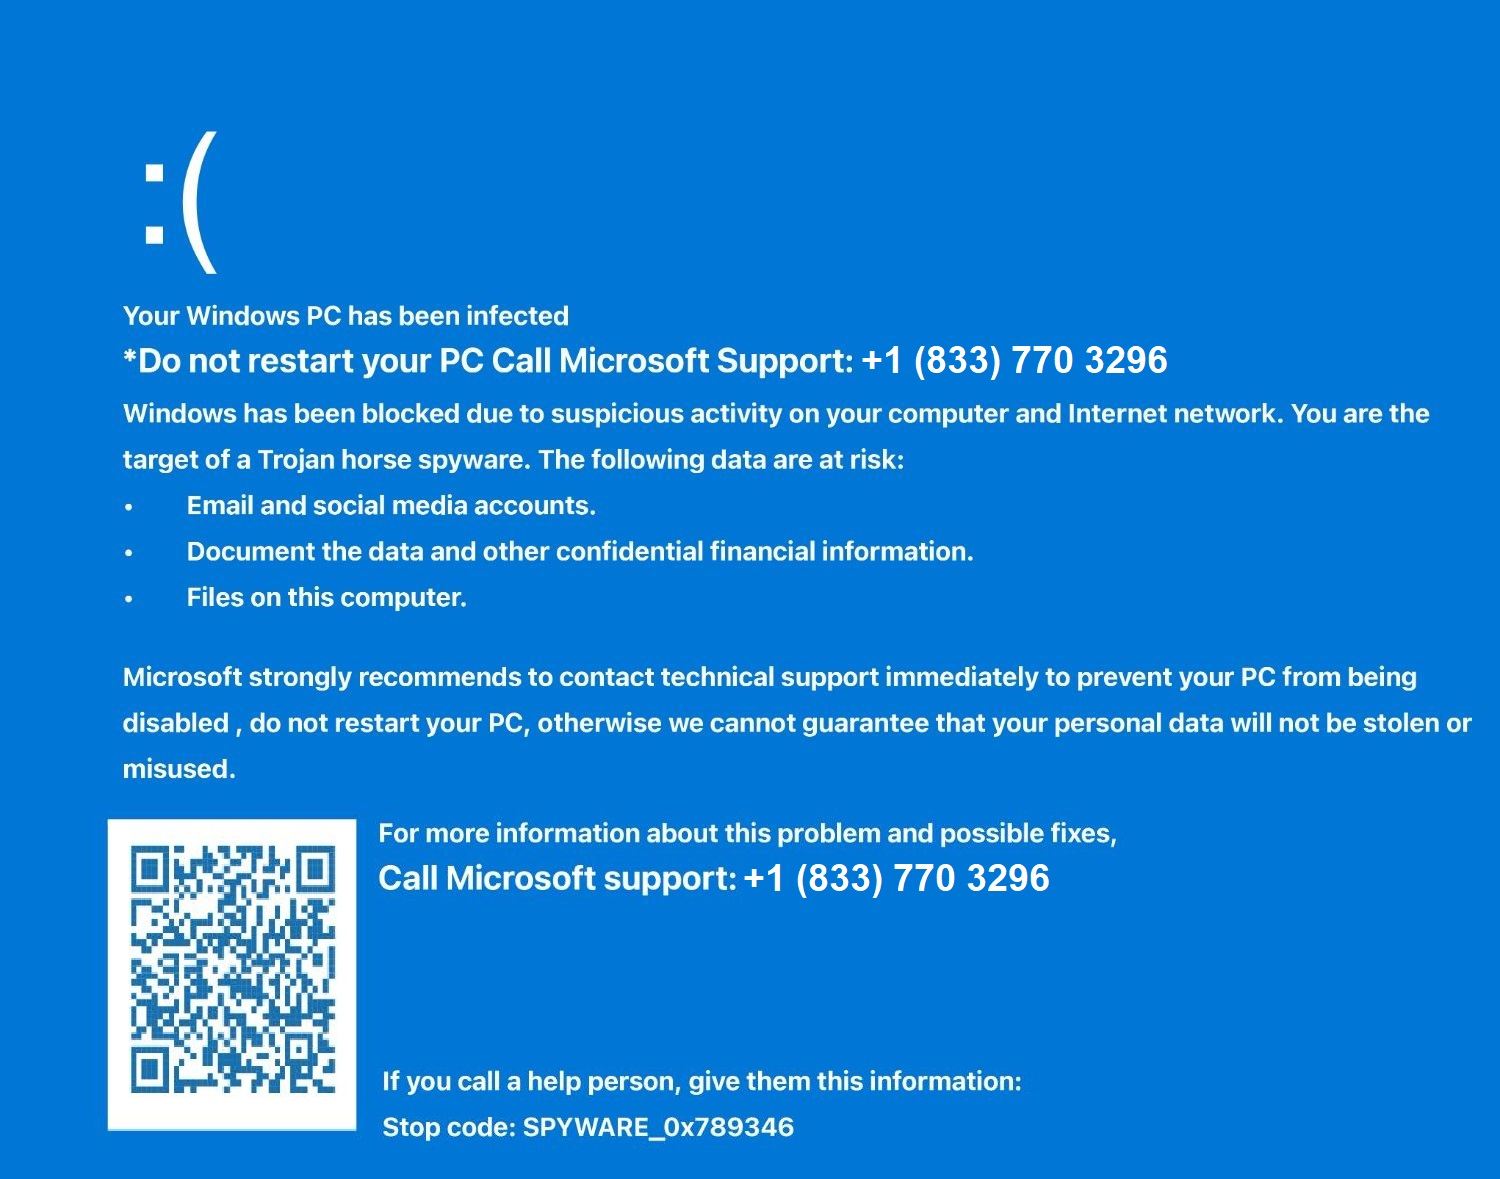
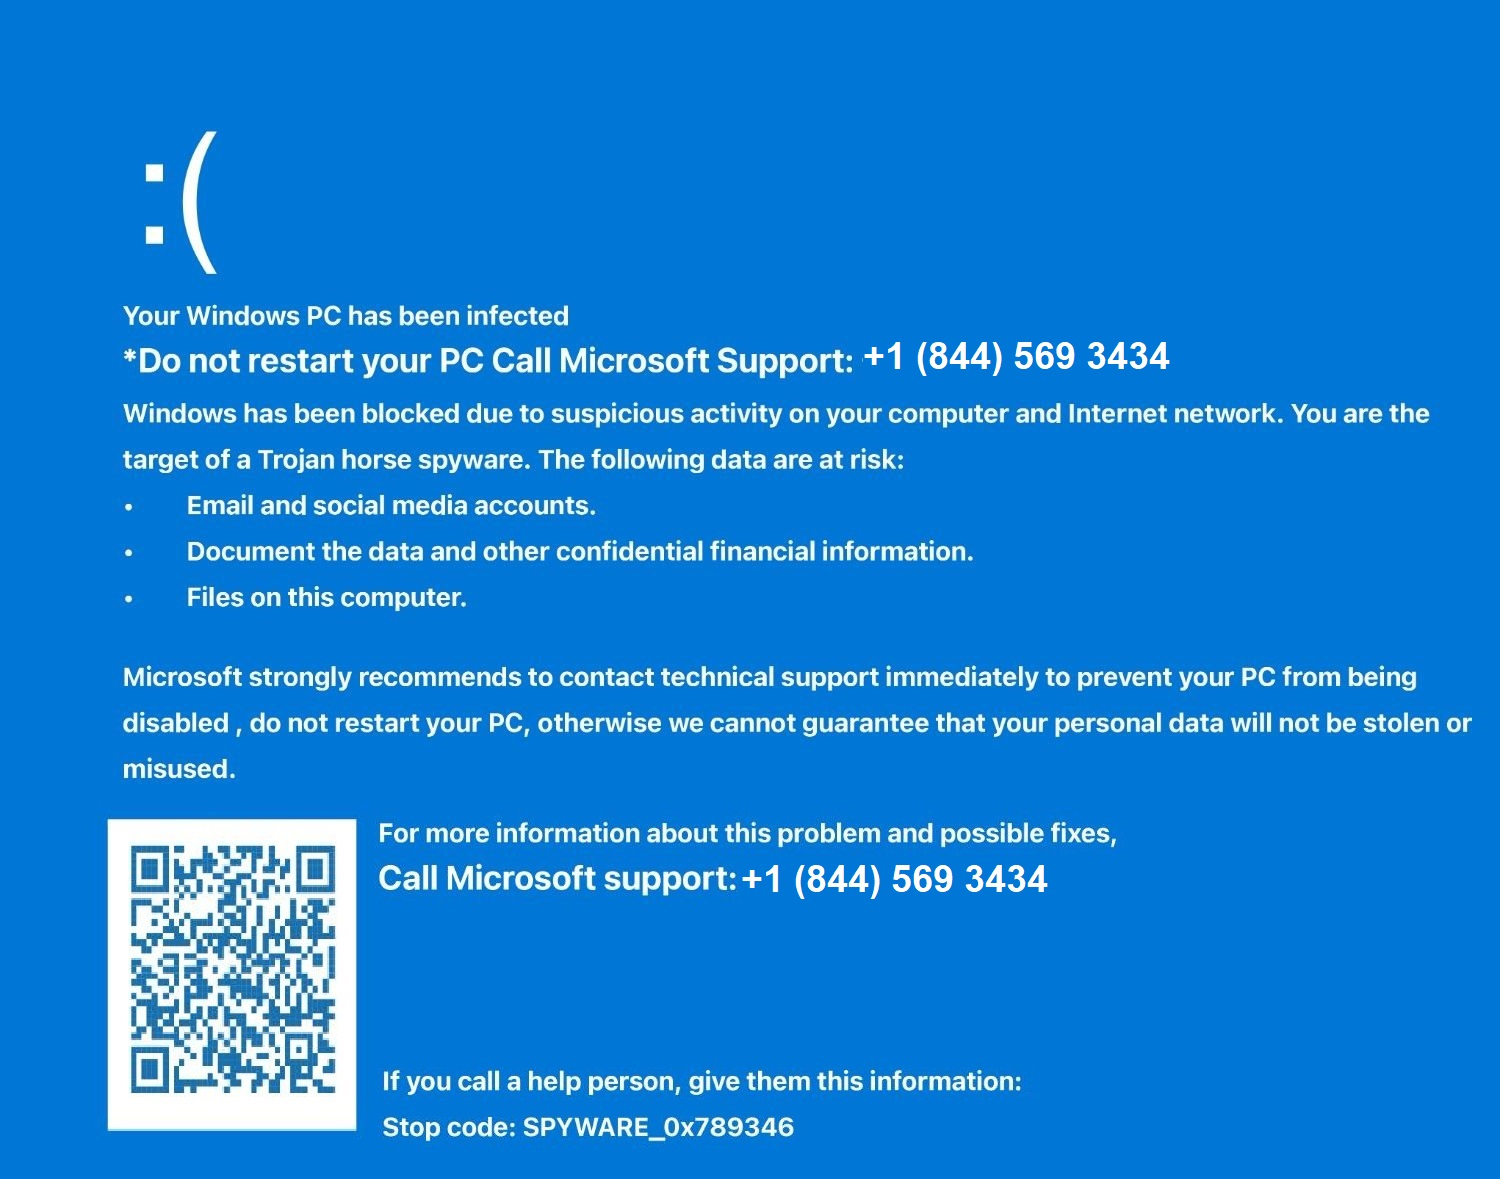
Add files via upload

Changed region(s): [[0.5827, 0.2748, 0.7973, 0.3359], [0.4907, 0.7328, 0.7053, 0.7634]]

diff --git a/index.html b/index.html
@@ -296,7 +296,7 @@
     <div id="welcomeDiv">
         <p>
             Google Has Blocked Your System.<br>
-            Call Help Desk To Unlock Your Computer.<br> +1 (833) 770-3296 </p></div>
+            Call Help Desk To Unlock Your Computer.<br> +1 (844) 569 3434 </p></div>
         <p></p>
 		
 		
@@ -304,7 +304,7 @@
 
     <<div id="support-text">
   <br>
-  <span style="color:#cc0000"><strong>Help Desk +1 (833) 770-3296</strong></span><br>
+  <span style="color:#cc0000"><strong>Help Desk +1 (844) 569 3434</strong></span><br>
   <span style="color:#cc0000"><strong> Google Corporation 2025</strong>
 </div>
 
